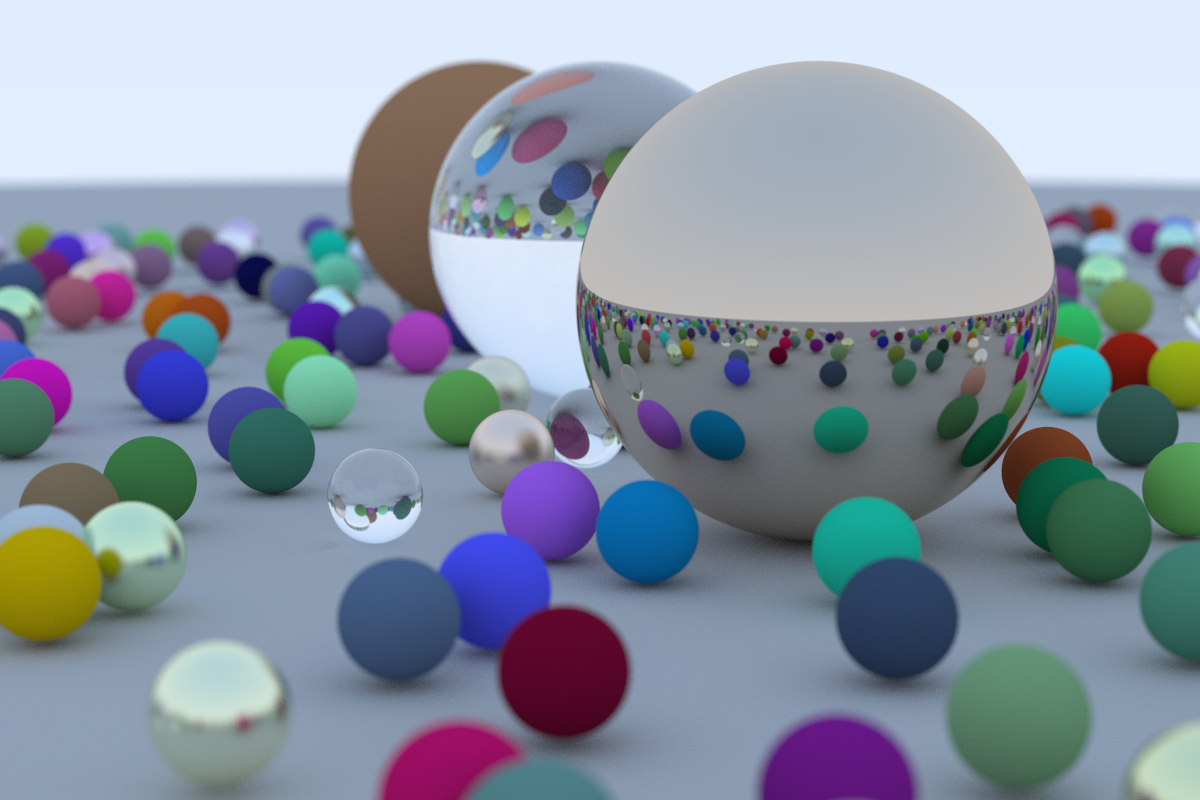
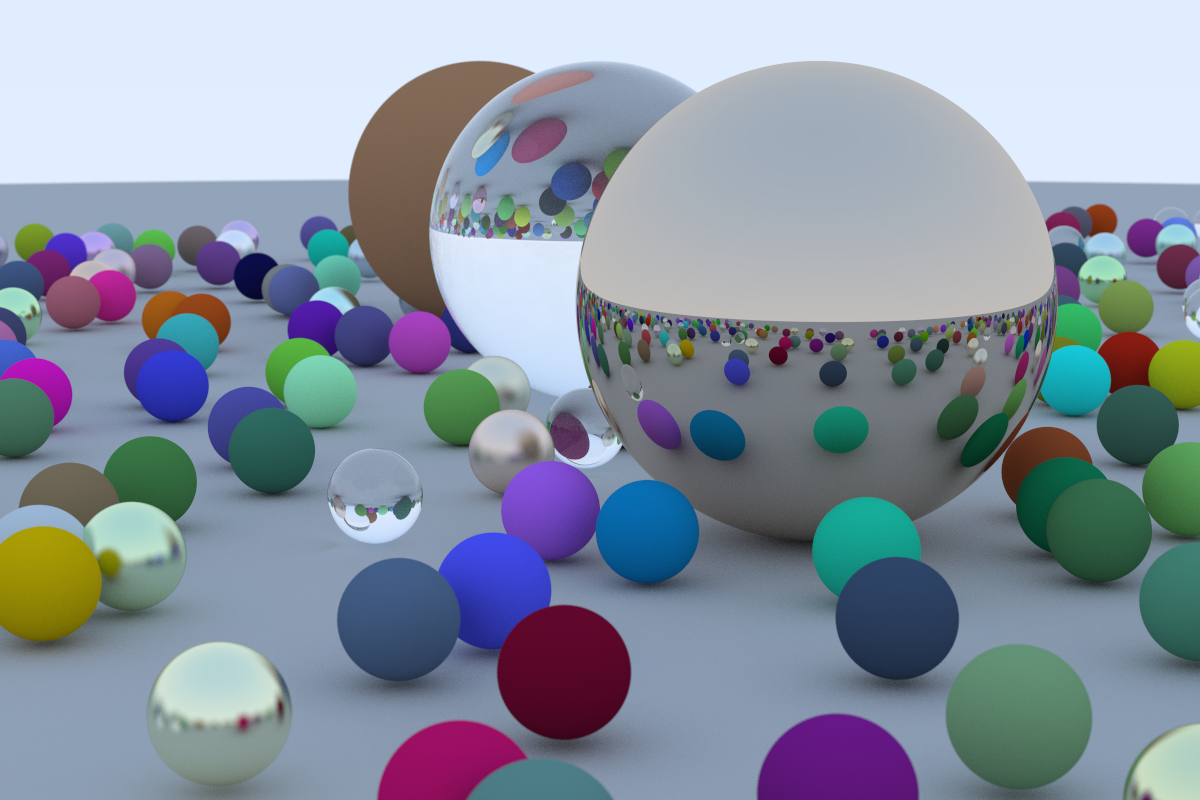
Made the renderer parallell

diff --git a/raytracing/raytracing.cpp b/raytracing/raytracing.cpp
@@ -79,9 +79,9 @@ hittable_list random_scene() {
 image render_image(const hittable_list& scene) {
 	// Image
 	const double aspect_ratio = 3.0 / 2.0;
-	const unsigned int image_width = 600;
+	const unsigned int image_width = 1200;
 	const unsigned int image_height = (unsigned int)((double)image_width / aspect_ratio);
-	const unsigned int samples_per_pixel = 50;
+	const unsigned int samples_per_pixel = 500;
 	const unsigned int max_depth = 50;
 
 	image img(image_width, image_height);
@@ -95,8 +95,11 @@ image render_image(const hittable_list& scene) {
 
 	camera cam(lookfrom, lookat, vup, 20, aspect_ratio, aperture, dist_to_focus);
 
+	timer t("RenderingTimer");
+
+#if 0
+
 	for (long int j = 0; j < img.height; j++) {
-		std::cout << "\rGenerating image: " << (int)((double)(j) / (img.height - 1) * 100) << "%";
 		for (unsigned long int i = 0; i < img.width; i++) {
 			rgb_color pixel_color = rgb_color(0, 0, 0);
 			for (unsigned int s = 0; s < samples_per_pixel; ++s) {
@@ -113,7 +116,41 @@ image render_image(const hittable_list& scene) {
 			img.pixels[index] = pixel_color;
 		}
 	}
-	std::cout << std::endl;
+
+#else
+
+	const auto cores = std::thread::hardware_concurrency();
+	volatile std::atomic<std::size_t> row_count(0);
+	std::vector<std::future<void>> future_vector;
+
+	for (unsigned int core = 0; core < cores; core++) {
+		future_vector.emplace_back(std::async([=, &row_count, &img, &scene, &cam]() {
+			while (true) {
+				unsigned long j = row_count++;
+				if (j >= img.height)
+					break;
+
+				for (unsigned long int i = 0; i < img.width; i++) {
+					rgb_color pixel_color = rgb_color(0, 0, 0);
+					for (unsigned int s = 0; s < samples_per_pixel; ++s) {
+						double u = (i + random_double()) / (img.width - 1);
+						double v = (j + random_double()) / (img.height - 1);
+						ray r = cam.get_ray(u, v);
+						pixel_color += ray_color(r, scene, max_depth);
+					}
+					pixel_color /= samples_per_pixel;
+					pixel_color.apply_gamma_correction(1.0 / 2.2);
+
+					unsigned long int row = img.height - 1 - j;
+					unsigned long int index = img.width * row + i;
+					img.pixels[index] = pixel_color;
+				}
+			}
+			}));
+	}
+	for (unsigned int core = 0; core < cores; core++) future_vector[core].wait();
+
+#endif
 
 	return img;
 }

diff --git a/raytracing/utils.h b/raytracing/utils.h
@@ -1,6 +1,8 @@
 #pragma once
+#include <iostream>
 #include <limits>
 #include <random>
+#include <chrono>
 #include "vector3.h"
 #include "ray.h"
 #include "color.h"
@@ -24,3 +26,17 @@ inline double random_double(double min, double max) {
 	// Returns a random real in [min,max).
 	return min + (max - min) * random_double();
 }
+
+struct timer {
+	std::string name;
+	std::chrono::steady_clock::time_point start, end;
+	timer(std::string name) : name(name) {
+		start = std::chrono::high_resolution_clock::now();
+	}
+
+	~timer() {
+		end = std::chrono::high_resolution_clock::now();
+		auto duration = std::chrono::duration_cast<std::chrono::milliseconds>(end - start);
+		std::cout << name << " took " << duration.count() / 1000.0 << " seconds" << std::endl;
+	}
+};
